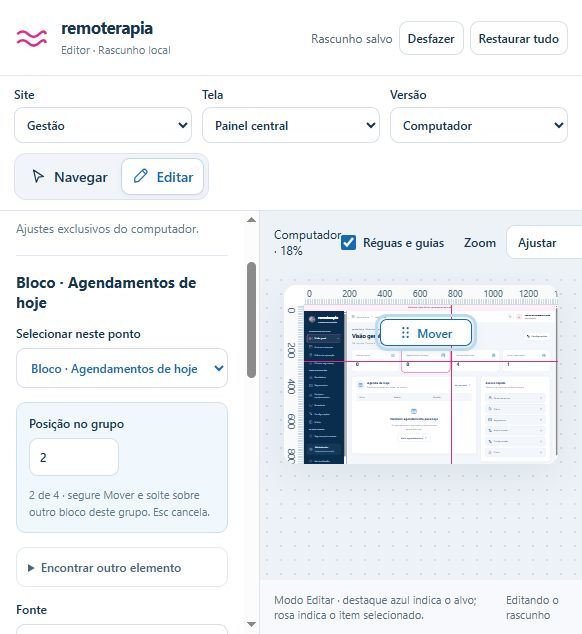
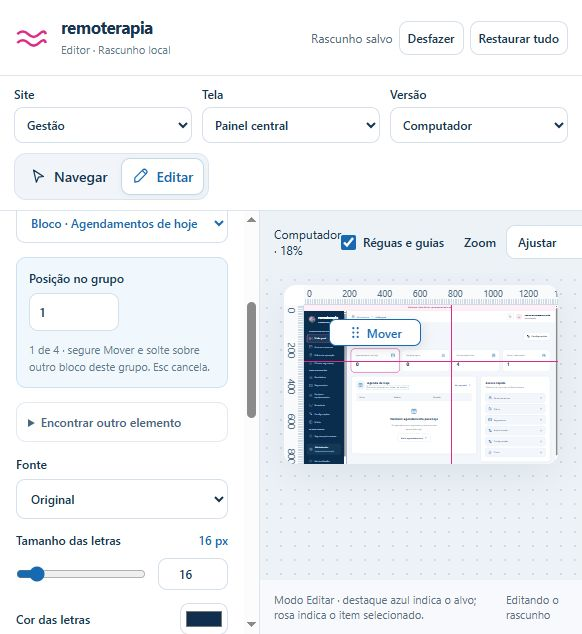
docs(editor): record drag verification and final preview

diff --git a/RETOMAR.md b/RETOMAR.md
@@ -31,7 +31,7 @@ Retomada autorizada em 14/10/2026. Prioridade atendida: editor simples, com rasc
 - Uma alteração por soltura; autosave no rascunho, desfazer, recuperação e isolamento por site/versão mantidos.
 - Provas: reordenação e recuperação na Gestão; Portal reorganizado sem exceder os 1440 px de largura; celular independente; blocos adicionados reordenados e testes temporários desfeitos. Estado anterior e dados fictícios comparados integralmente.
 - Testes: verify-move.cjs e verify-move-editor.cjs cobrem grupo, zoom, ponteiro, destino, posições fixas, Esc, cancelamento, modo e réguas.
-- Gesto físico no navegador ainda não comprovado pela automação: o adaptador nativo retornou alvo indisponível/fora da área ativa. Testes de eventos isolados e do resultado na interface passaram. Conferência manual deve arrastar pela alça, testar Esc e soltar fora do grupo.
+- A tentativa nativa mudou uma posição, mas retornou erro de alvo/área ativa; foi desfeita e o rascunho anterior foi comparado integralmente. A precisão do gesto físico ainda não está homologada pelo adaptador. Testes de eventos isolados e do resultado na interface passaram. Conferência manual deve arrastar pela alça, testar Esc e soltar fora do grupo.
 - Antes de produção, converter a ordem visual aprovada em estrutura/ordem de foco apropriada. Não publicar CSS de reordenação como substituto dessa revisão.
 
 ## Limitações ainda abertas
